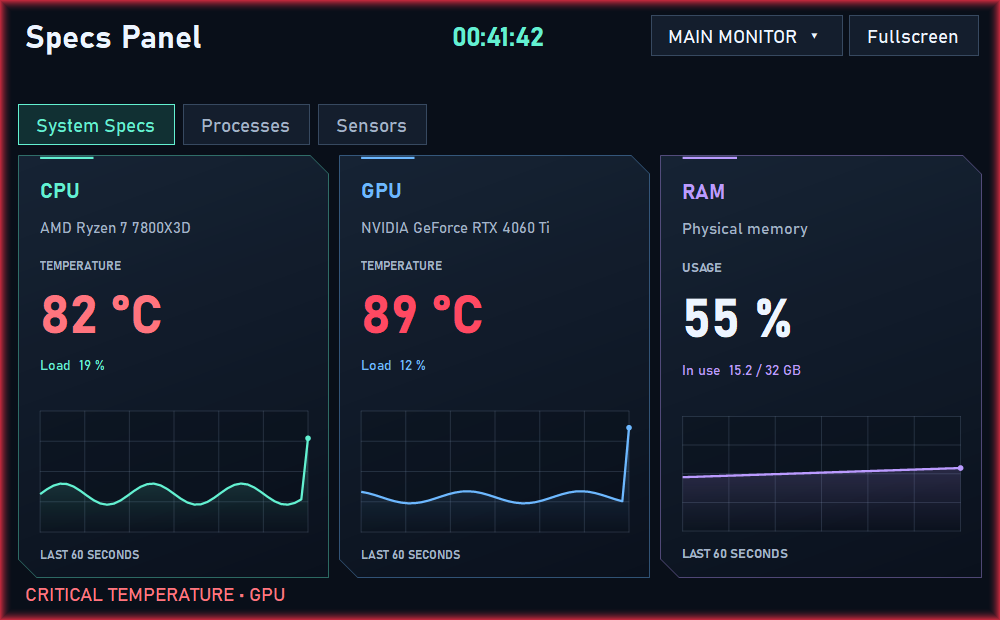
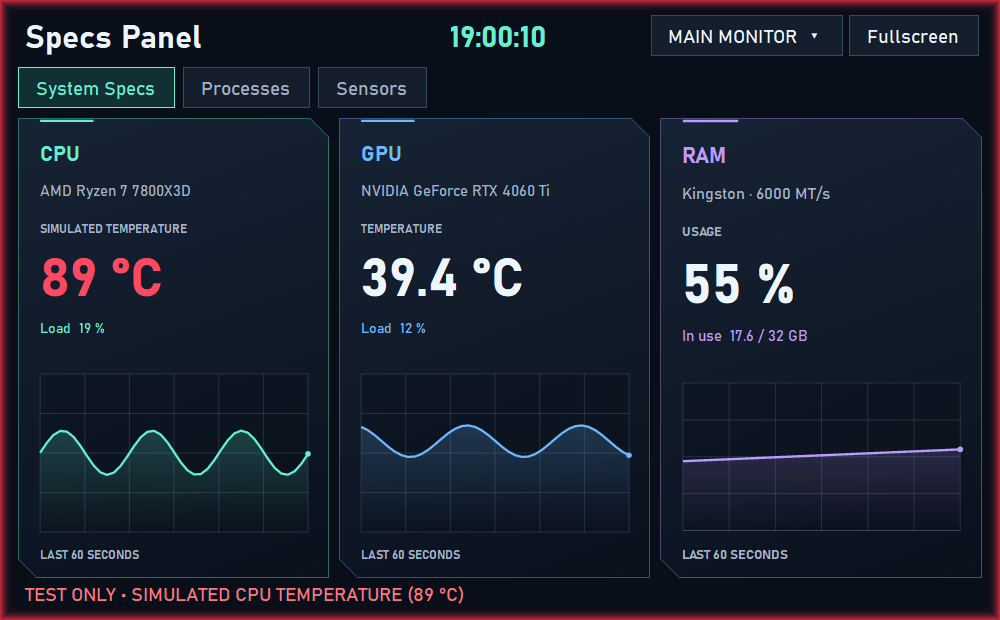
Enlarge the dashboard clock and refresh README screenshots

diff --git a/Specs Panel/Dashboard.cs b/Specs Panel/Dashboard.cs
@@ -174,7 +174,7 @@ internal sealed class Dashboard : Form
                 titleMenu.Show(brand, new Point(0, brand.Height));
         };
         brand.AccessibleDescription = "Opens the temperature alert test menu.";
-        clock.Font = new Font(Font.FontFamily, 16, FontStyle.Bold);
+        clock.Font = new Font(Font.FontFamily, 18, FontStyle.Bold);
         UpdateClock();
 
         StyleButton(displays);

diff --git a/README.md b/README.md
@@ -4,7 +4,7 @@ Windows dashboard for monitoring your PC on a second display, including any tabl
 
 **[Download Specs Panel for Windows (ZIP)](https://github.com/anejsobann/Specs-Panel/releases/latest/download/SpecsPanel-win-x64.zip)**
 
-![Specs Panel dashboard showing CPU and GPU temperatures, RAM usage, and 60-second charts](docs/images/system-specs.png)
+![Specs Panel dashboard showing the clock, CPU and GPU temperatures, RAM manufacturer and speed, and 60-second charts](docs/images/system-specs.png)
 
 *Dashboard preview with sample readings.*
 
